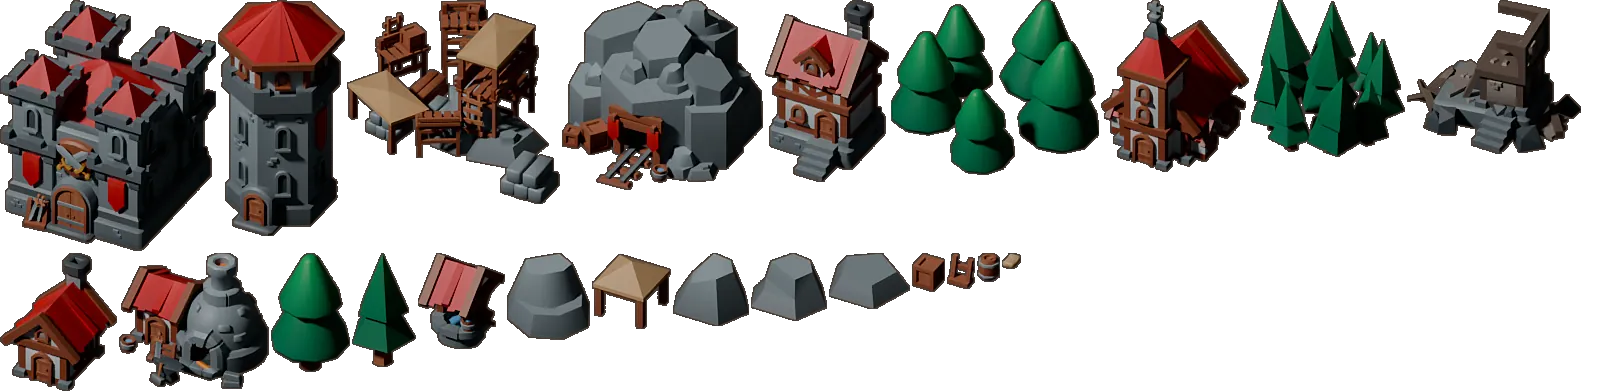
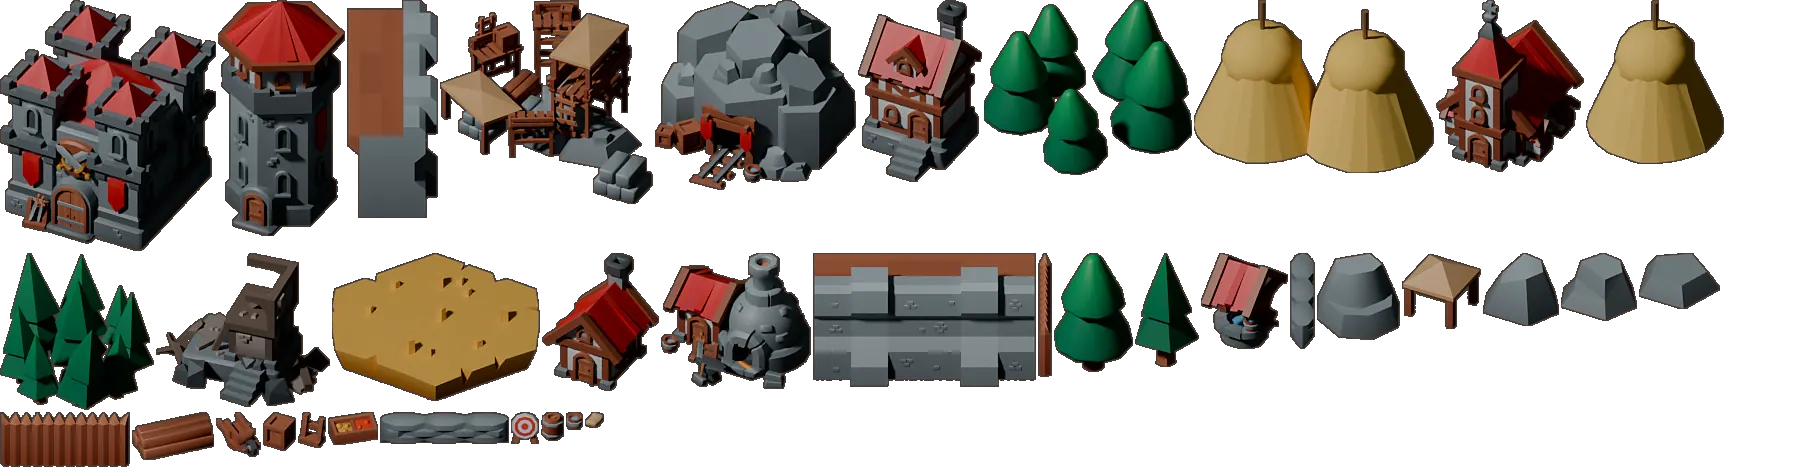
Realni zidovi, ograde i plastovi na bojištu; posledice bitke: ranjeni vojnici na oporavku i gubitak resursa pri porazu
Claude-Session: https://claude.ai/code/session_01MURPTWpuhHHLnsSrrAwjre

diff --git a/index.html b/index.html
@@ -2426,7 +2426,7 @@ function start(c){
  if(c.boss){const pos={x:sx>G.W/2?140:G.W-160,y:G.H/2};const b=mkEnemy(c.boss.sprite==='rvitez'?'vitez':c.boss.sprite,pos);const m=1+.11*(c.L-1);
   Object.assign(b,{boss:true,sprite:c.boss.sprite,look:c.bossLook||'B'+c.reg,r:c.boss.r,hp:1300*m*(1+c.reg*.3),max:1300*m*(1+c.reg*.3),dmg:26*(1+.06*c.L),sp:[62,62],xp:300+c.L*10,loot:120+c.L*8,ringT:3,sumT:7});
   G.enemies.push(b);G.bossRef=b;G.bossLabel=c.boss.name}
- {const pick=armyPick(c),n=pick.length,A=ensureArmy(),usedI={};for(let i=0;i<n;i++){const id=pick[i],us=unitStats(id),a=i/n*6.283;const k=usedI[id]=(usedI[id]||0)+1;const name=A[id].names[k-1]||UNITS.find(u=>u.id===id).name;
+ {const pick=armyPick(c),n=pick.length,A=ensureArmy(),usedI={};for(let i=0;i<n;i++){const id=pick[i],us=unitStats(id),a=i/n*6.283;const k=usedI[id]=(usedI[id]||0)+1;const name=A[id].names.filter(n=>!isWounded(n))[k-1]||UNITS.find(u=>u.id===id).name;
   G.allies.push({name,unit:id,type:'ratnik',sprite:'ratnik',x:G.p.x-30+Math.cos(a)*40,y:G.p.y+Math.sin(a)*40,r:13,vx:0,vy:0,kx:0,ky:0,face:1,stun:0,seed:R()*10,born:0,hitT:0,boss:false,color:save.tribe?save.tribe.color:'#b8323a',
    hp:us.hp,max:us.hp,dmg:us.dmg,range:us.range,rate:us.rate,taunt:id==='stit',atkT:R(),off:a,ally:true})}}
  $('#allyC').innerHTML=G.allies.length?`<i class="ic">${SVG.ally}</i>${G.allies.length} saborca`:'';
@@ -3400,7 +3400,7 @@ function toggleMus(){save.music=save.music===0?1:0;persist();syncMus();musTick()
 function syncMus(){const b=document.getElementById('musBtn');if(b)b.textContent=save.music===0?'Muzika: isključena':'Muzika: uključena'}
 setTimeout(()=>{const sb=document.getElementById('sndBtn');if(sb&&!document.getElementById('musBtn')){const b=document.createElement('button');b.id='musBtn';b.className=sb.className;b.onclick=toggleMus;sb.after(b);syncMus()}},0);
 /* ---------- 3D zgrade, drveće i kamenje (KayKit Medieval Hexagon, CC0) ---------- */
-const PROPS={"hall":[0,0,216,251,105.0,194.8],"tower":[218,0,127,236,63.0,198.6],"quarry":[347,0,213,204,129.5,123.3],"mine":[562,0,201,190,98.5,131.6],"home_b":[765,0,124,182,58.0,142.7],"trees_m":[891,0,208,175,112.0,127.9],"church":[1101,0,148,172,69.5,133.5],"trees_s":[1251,0,154,157,74.0,119.8],"ruin":[1407,0,174,154,92.0,107.7],"home_a":[0,253,117,138,61.0,107.7],"smith":[119,253,150,136,73.5,101.7],"tree_b":[271,253,79,119,39.5,112.0],"tree_a":[352,253,64,114,32.0,106.6],"well":[418,253,87,96,44.5,82.7],"rock_c":[507,253,83,87,41.5,58.4],"tent":[592,253,79,76,39.5,54.7],"rock_d":[673,253,76,73,41.0,49.2],"rock_b":[751,253,76,68,40.5,43.5],"rock_a":[829,253,81,56,40.5,29.3],"crate":[912,253,33,39,16.5,29.0],"rack":[947,253,28,36,14.0,28.8],"barrel":[977,253,23,29,12.0,23.5],"sack":[1002,253,19,16,9.5,11.4]};const PIMG=new Image();let PROK=0;PIMG.onload=()=>{PROK=1;if(typeof fortDirty!=='undefined')fortDirty=1};PIMG.src='a3d/props.webp?v=2';
+const PROPS={"hall":[0,0,216,251,105.0,194.8],"tower":[218,0,127,236,63.0,198.6],"wall_v":[347,0,91,218,45.5,154.0],"quarry":[440,0,213,204,129.5,123.3],"mine":[655,0,201,190,98.5,131.6],"home_b":[858,0,124,182,58.0,142.7],"trees_m":[984,0,208,175,112.0,127.9],"hay2":[1194,0,240,173,120.0,129.0],"church":[1436,0,148,172,69.5,133.5],"hay":[1586,0,138,164,69.5,124.3],"trees_s":[0,253,154,157,74.0,119.8],"ruin":[156,253,174,154,92.0,107.7],"grain":[332,253,208,148,103.5,87.2],"home_a":[542,253,117,138,61.0,107.7],"smith":[661,253,150,136,73.5,101.7],"wall_h":[813,253,223,134,111.5,107.0],"fw_v":[1038,253,14,124,7.0,86.8],"tree_b":[1054,253,79,119,39.5,112.0],"tree_a":[1135,253,64,114,32.0,106.6],"well":[1201,253,87,96,44.5,82.7],"fs_v":[1290,253,25,96,12.5,59.6],"rock_c":[1317,253,83,87,41.5,58.4],"tent":[1402,253,79,76,39.5,54.7],"rock_d":[1483,253,76,73,41.0,49.2],"rock_b":[1561,253,76,68,40.5,43.5],"rock_a":[1639,253,81,56,40.5,29.3],"fw_h":[0,412,130,55,65.0,50.8],"lumber":[132,412,82,48,41.0,31.4],"wheel":[216,412,45,45,25.5,32.0],"crate":[263,412,33,39,16.5,29.0],"rack":[298,412,28,36,14.0,28.8],"cratel":[328,412,50,33,25.5,23.2],"fs_h":[380,412,129,32,64.5,29.6],"target":[511,412,28,32,14.0,28.6],"barrel":[541,412,23,29,12.0,23.5],"bucket":[566,412,17,18,8.5,14.1],"sack":[585,412,19,16,9.5,11.4]};const PIMG=new Image();let PROK=0;PIMG.onload=()=>{PROK=1;if(typeof fortDirty!=='undefined')fortDirty=1};PIMG.src='a3d/props.webp?v=3';
 function pdraw(g,n,x,y,wpx,flip){const p=PROPS[n];if(!p||!PROK)return false;const k=wpx/p[2];g.save();g.translate(x,y);if(flip)g.scale(-1,1);g.imageSmoothingQuality='high';g.drawImage(PIMG,p[0],p[1],p[2],p[3],-p[4]*k,-p[5]*k,p[2]*k,p[3]*k);g.restore();return true}
 const phash=(x,y)=>Math.abs(Math.floor(x*13.7+y*7.3))%997;
 function pshadow(g,x,y,rx,ry){g.fillStyle='rgba(0,0,0,.32)';ell(g,x,y,rx,ry);g.fill()}
@@ -3416,6 +3416,21 @@ function pshadow(g,x,y,rx,ry){g.fillStyle='rgba(0,0,0,.32)';ell(g,x,y,rx,ry);g.f
 {const _o=drawObst;drawObst=function(f,o,reg){if(!PROK||save.h3d===0||(o.kind!=='rock'&&o.kind!=='tree'))return _o.apply(this,arguments);
  if(o.kind==='rock'){f.fillStyle='rgba(0,0,0,.4)';f.beginPath();f.ellipse(o.x+5,o.y+o.r*.35,o.r*1.05,o.r*.45,0,0,7);f.fill();pdraw(f,['rock_a','rock_b','rock_c','rock_d'][phash(o.x,o.y)%4],o.x,o.y+o.r*.45,o.r*2.4,phash(o.y,o.x)%2)}
  else{f.fillStyle='rgba(0,0,0,.4)';f.beginPath();f.ellipse(o.x+6,o.y+o.r*.3,o.r*1.3,o.r*.55,0,0,7);f.fill();pdraw(f,phash(o.x,o.y)%3?'trees_s':'tree_b',o.x,o.y+o.r*.4,o.r*3.4,phash(o.y,o.x)%2)}}}
+
+/* --- realni zidovi, ograde, plastovi --- */
+function pdrawFit(f,n,x,y,w,h){const p=PROPS[n];if(!p||!PROK)return false;f.drawImage(PIMG,p[0],p[1],p[2],p[3],x,y,w,h);return true}
+{const _w=drawWall;drawWall=function(f,w,reg){if(!PROK||save.h3d===0||w.kind==='stake')return _w.apply(this,arguments);
+ const hor=w.w>=w.h,base=w.kind==='log'?'fw':w.kind==='ridge'?'fs':'wall';const n=base+(hor?'_h':'_v');const p=PROPS[n];if(!p)return _w.apply(this,arguments);
+ f.fillStyle='rgba(0,0,0,.35)';f.fillRect(w.x+4,w.y+6,w.w,w.h);
+ if(hor){const th=w.h,segW=th*3.2,cnt=Math.max(1,Math.round(w.w/segW)),sw=w.w/cnt,sh=sw*p[3]/p[2];for(let i=0;i<cnt;i++)pdrawFit(f,n,w.x+i*sw-sw*.04,w.y+w.h-sh*.92,sw*1.08,sh)}
+ else{const tw=w.w,segH=tw*3.2,cnt=Math.max(1,Math.round(w.h/segH)),sh=w.h/cnt,sw=Math.max(tw*1.25,sh*p[2]/p[3]);for(let i=0;i<cnt;i++)pdrawFit(f,n,w.x+w.w/2-sw/2,w.y+i*sh-sh*.25,sw,sh*1.3)}}}
+{const _d=drawDecor;drawDecor=function(f,d,reg){if(!PROK||save.h3d===0)return _d.apply(this,arguments);const k=d.k;
+ if(k==='plast'){pdraw(f,d.v<.5?'hay':'hay2',d.x,d.y,(d.v<.5?34:52)*d.s,d.v>.75);return}
+ if(k==='palisada'||k==='pleter'){pdraw(f,'fw_h',d.x,d.y,46*d.s);return}
+ if(k==='zidina'){pdraw(f,'fs_h',d.x,d.y,48*d.s);return}
+ if(k==='ruina'){pdraw(f,'ruin',d.x,d.y,60*d.s,d.v>.5);return}
+ if(k==='kamencici'&&d.v>.7){pdraw(f,['crate','barrel','sack','lumber','cratel','wheel','bucket'][Math.floor(d.v*70)%7],d.x,d.y,20*d.s);return}
+ return _d.apply(this,arguments)}}
 /* ---------- vođenje za novog igrača ---------- */
 const TUT_CSS=`#tutBox{position:fixed;left:50%;bottom:calc(150px + env(safe-area-inset-bottom));transform:translateX(-50%);z-index:60;width:min(88vw,380px);display:none;gap:12px;align-items:center;
  padding:12px 16px;background:linear-gradient(180deg,#fbf1d8,#ead6ac);border:2px solid #d6a955;border-radius:10px;box-shadow:0 6px 20px rgba(0,0,0,.45),inset 0 0 0 1px rgba(255,255,255,.6);color:#3a2010;font:600 15px/1.3 'EB Garamond',serif}
@@ -3674,6 +3689,30 @@ const ZNAMES=['Stana','Mara','Jelica','starac Ilija','Milica','Sava','kaluđer P
  g.restore()}}
 {const _ds2=modeDs;modeDs=function(ds,t){_ds2(ds,t);if(G&&G.zbeg)for(const z of G.zbeg)if(z.hp>0&&!z.ok)ds.push({y:z.y,f:()=>{drawEnemy(ctx,z,t);ctx.save();ctx.fillStyle='rgba(0,0,0,.6)';ctx.fillRect(z.x-12,z.y-44,24,4);ctx.fillStyle='#9fe08a';ctx.fillRect(z.x-12,z.y-44,24*Math.max(0,z.hp/z.max),4);ctx.restore()}})}}
 {const _er=endRun;endRun=function(win){const n=$('#nalet');if(n)n.classList.remove('on');return _er.apply(this,arguments)}}
+
+/* --- posledice: ranjeni vojnici, gubitak resursa --- */
+function isWounded(n){const w=save.wounded&&save.wounded[n];return !!(w&&w>Date.now())}
+function woundLeft(n){const w=save.wounded&&save.wounded[n];return w?Math.max(0,w-Date.now()):0}
+const fmtMin=ms=>{const m=Math.ceil(ms/60000);return m>=60?Math.floor(m/60)+' h '+(m%60)+' min':m+' min'};
+{const _ap=armyPick;armyPick=function(c){const A=ensureArmy(),saveN={};for(const u of UNITS){saveN[u.id]=A[u.id].n;A[u.id].n=Math.max(0,A[u.id].n-(A[u.id].names||[]).filter(isWounded).length)}
+ try{return _ap.apply(this,arguments)}finally{for(const u of UNITS)A[u.id].n=saveN[u.id]}}}
+{const _er=endRun;endRun=function(win){const c=G&&G.cfg;let lostRes=null,wounded=[];
+ if(G&&c&&!c.spect){save.wounded=save.wounded||{};for(const k in save.wounded)if(save.wounded[k]<Date.now())delete save.wounded[k];
+  const mins=win?4:12;for(const n of (G.fallen||[]))if(soldiers().some(s=>s.name===n)){save.wounded[n]=Date.now()+mins*60000;wounded.push(n)}
+  if(!win&&(c.kind==='camp'||c.kind==='raid'||c.kind==='war')){lostRes={};for(const k of RES){const l=Math.floor((save.res[k]||0)*.1);if(l>0){save.res[k]-=l;lostRes[k]=l}}}
+  persist()}
+ const r=_er.apply(this,arguments);
+ try{const el=$('#rNote');let h='';if(lostRes&&Object.keys(lostRes).length)h+=`<div class="conseq bad"><b>Poraz ima cenu.</b> Dušmani su odneli: ${RES.map(k=>lostRes[k]?icon(k)+num(lostRes[k]):'').join(' ')}</div>`;
+  if(wounded.length)h+=`<div class="conseq"><b>Ranjeni:</b> ${wounded.map(esc).join(', ')}. ${wounded.length>1?"Oporavljaju":"Oporavlja"} se ${win?'4':'12'} min i do tada ne idu u boj.</div>`;
+  if(h&&el)el.insertAdjacentHTML('beforeend',h)}catch(e){}
+ return r}}
+{const _as=armySheet;armySheet=function(el){_as.apply(this,arguments);const W=soldiers().filter(s=>isWounded(s.name));if(!W.length)return;
+ const cost=n=>({zar:nice(40+Math.ceil(woundLeft(n)/60000)*25)});
+ el.insertAdjacentHTML('afterbegin',`<div class="wounded"><div class="sec">Na oporavku</div>${W.map(s=>`<div class="wrow"><span><b>${esc(s.name)}</b><small>${s.uname}, još ${fmtMin(woundLeft(s.name))}</small></span>${costHtml(cost(s.name))}<button class="btn sm primary" data-heal="${esc(s.name)}" ${canPay(cost(s.name))?'':'disabled'}>Leči</button></div>`).join('')}</div>`);
+ el.querySelectorAll('[data-heal]').forEach(b=>b.onclick=()=>{const n=b.dataset.heal,c=cost(n);if(!canPay(c))return;pay(c);delete save.wounded[n];persist();sfx.build&&sfx.build();renderSheet()})}}
+{const st=document.createElement('style');st.textContent=`.conseq{margin-top:10px;padding:9px 12px;border-radius:6px;background:rgba(110,26,16,.08);border:1px solid rgba(110,26,16,.3);font:600 14px/1.35 'EB Garamond',serif;color:#4a2a14;text-align:left}.conseq.bad{background:rgba(160,30,10,.12)}.conseq b{color:#6e1a10}.conseq .ic{width:15px;height:15px;vertical-align:-2px;margin:0 2px 0 6px}
+.wounded{margin-bottom:12px;padding:10px 12px;border:1px solid rgba(110,26,16,.3);border-radius:6px;background:rgba(160,30,10,.06)}.wrow{display:grid;grid-template-columns:1fr auto;gap:6px 10px;align-items:center;padding:6px 0;border-top:1px dashed rgba(90,50,20,.2)}
+.wrow span b{display:block;font:800 14px Cinzel,serif;color:#3a1a0c}.wrow span small{font:italic 13px 'EB Garamond',serif;color:#7a4a2a}.wrow .cost{grid-column:1/2}.wrow .btn{grid-column:2/3;grid-row:1/3;min-width:90px}`;document.head.appendChild(st)}
 
 /* ---------- kraj misije ---------- */
 function endRun(win){const c=G.cfg,hid=G.hero.id;state='result';
